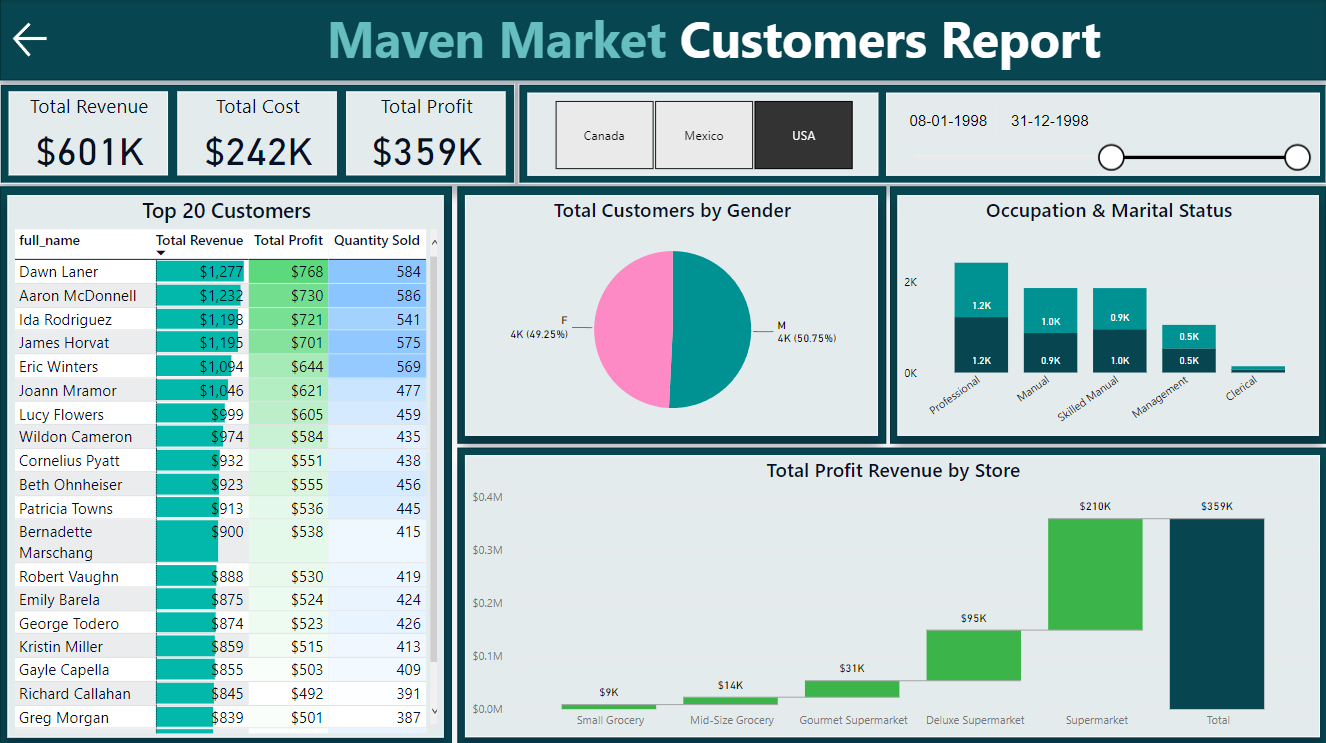
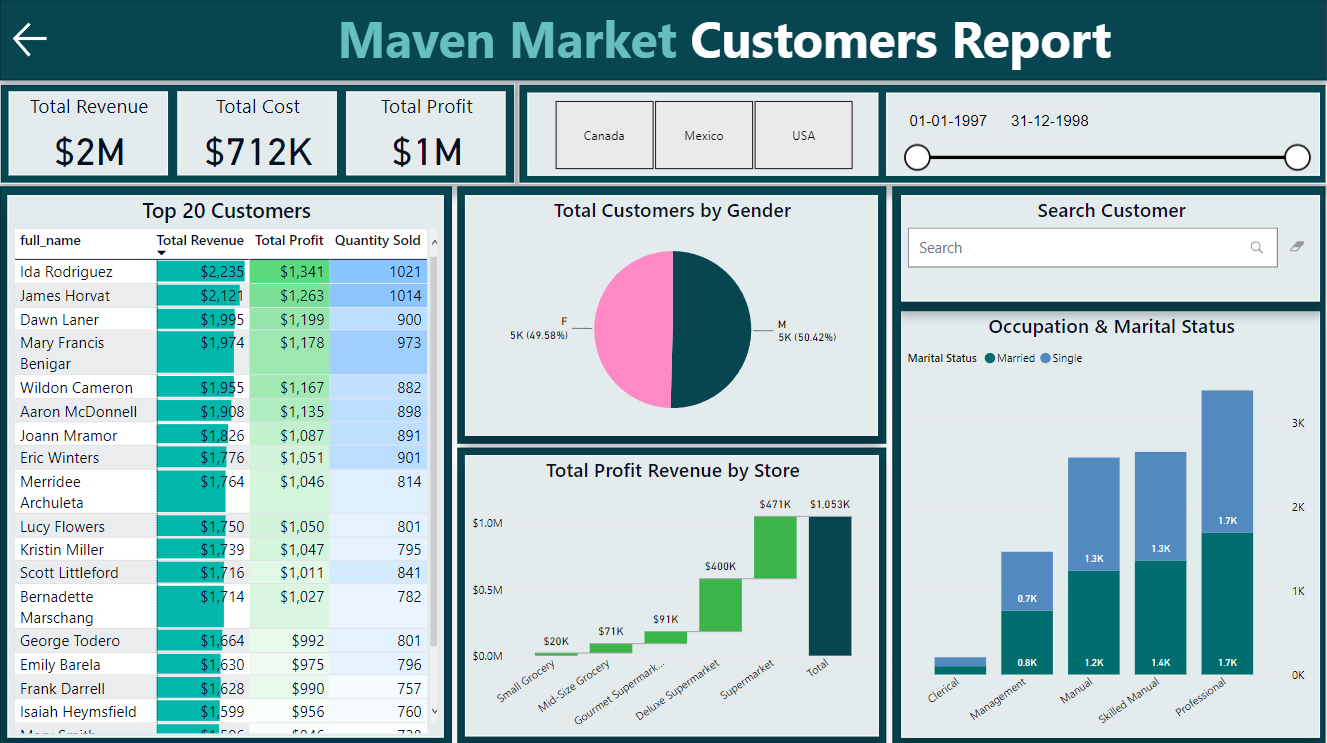
Main

diff --git a/powerbi.html b/powerbi.html
@@ -318,7 +318,14 @@
                   names in the Products table</li>
                 <pre class="col-lg-5" mark
                   style="background-color:rgb(46, 45, 45); color:rgb(232, 242, 255)">Unique Products = DISTINCTCOUNT(Products[product_name])</pre>
-              </ul>
+                <li class="my-3">Create new measures named  "Last Month Transactions", "Last Month Revenue", "Last Month Profit".</li>
+                <pre class="col-lg-10" mark
+                  style="background-color:rgb(46, 45, 45); color:rgb(232, 242, 255)">Last Month Transactions = CALCULATE(Transactions[Total Transactions], DATEADD('Calendar'[Date],-1,MONTH))</pre>
+                 <pre class="col-lg-9" mark
+                  style="background-color:rgb(46, 45, 45); color:rgb(232, 242, 255)">Last Month Revenue = CALCULATE(Transactions[Total Revenue], DATEADD('Calendar'[Date],-1,MONTH))</pre>
+                <pre class="col-lg-9" mark
+                  style="background-color:rgb(46, 45, 45); color:rgb(232, 242, 255)">Last Month Profit = CALCULATE(Transactions[Total Profit], DATEADD('Calendar'[Date],-1,MONTH))</pre>
+                </ul>
             </div>
           </div>
           <div class="col-lg-12">
@@ -340,7 +347,7 @@
               <p>
                 <h5 class="mb-2">I've successfully published the report to workspace, now it is be accessable by my client or any business user : </h5>
                 <img class="col-12 col-md-12  col-sm-12 col-lg-10 mt-2" src="assets/img/powerbi/Published.png" alt="">
-                <h5 class="mt-2">I've also create subscription for my client so that they will get a snapshot of report in their email: </h5>
+                <h5 class="mt-2">I've also created subscription for my client so that they will get a snapshot of report in their email: </h5>
                 <img class="col-12 col-md-12  col-sm-12 col-lg-10 mt-2" src="assets/img/powerbi/Published2.png" alt="">
                 <h5 class="mt-2">Recieved report snapshot via email: </h5>
                 <img class="col-12 col-md-12  col-sm-12 col-lg-10 mt-2" src="assets/img/powerbi/Subscription.png" alt="">
